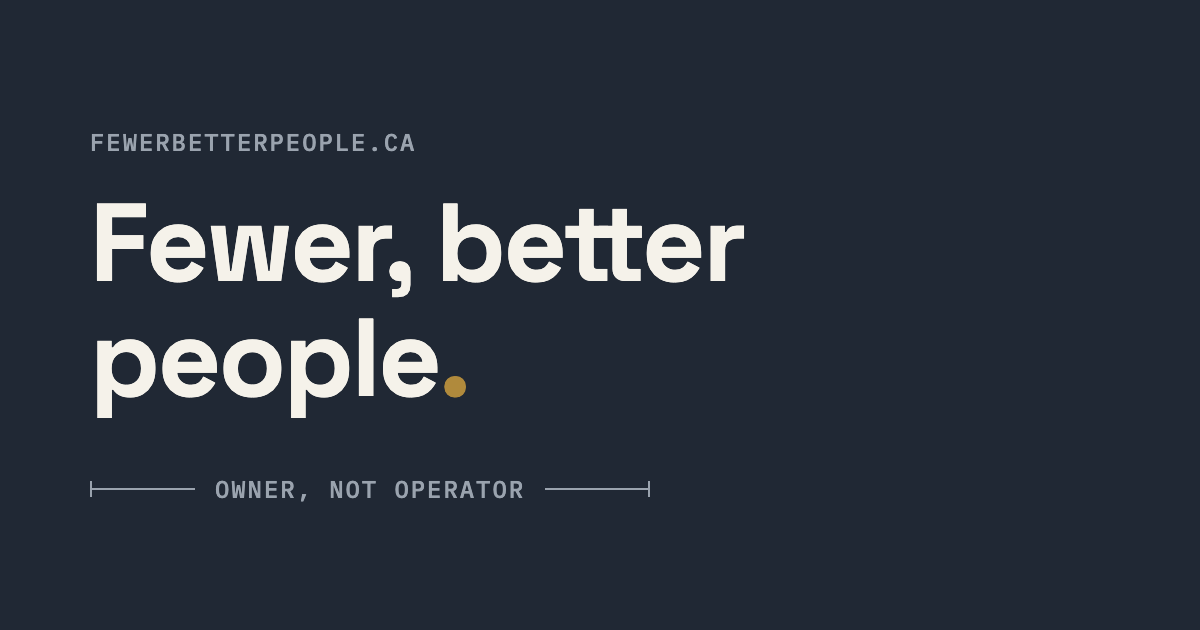
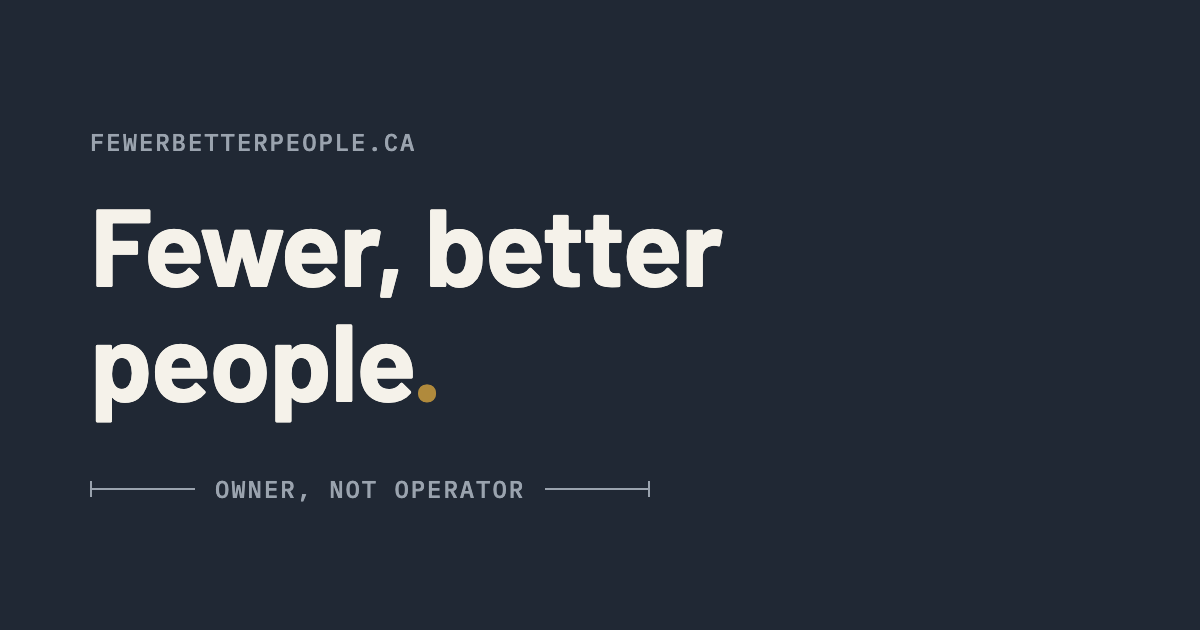
design: replace Space Grotesk with Barlow for display type
Karl's call after a side-by-side specimen. Recomputed the Arial fallback
metrics for Barlow (CLS stays 0), eased display tracking to -0.012em
since Barlow is already narrow, regenerated the default OG image.

diff --git a/src/styles/fonts.css b/src/styles/fonts.css
@@ -8,18 +8,18 @@
    (see README "Fonts"). */
 
 @font-face {
-  font-family: 'Space Grotesk';
+  font-family: 'Barlow';
   font-style: normal;
   font-weight: 500;
   font-display: swap;
-  src: url('/fonts/space-grotesk-latin-500-normal.woff2') format('woff2');
+  src: url('/fonts/barlow-latin-500-normal.woff2') format('woff2');
 }
 @font-face {
-  font-family: 'Space Grotesk';
+  font-family: 'Barlow';
   font-style: normal;
   font-weight: 700;
   font-display: swap;
-  src: url('/fonts/space-grotesk-latin-700-normal.woff2') format('woff2');
+  src: url('/fonts/barlow-latin-700-normal.woff2') format('woff2');
 }
 @font-face {
   font-family: 'IBM Plex Sans';
@@ -57,13 +57,13 @@
   src: url('/fonts/ibm-plex-mono-latin-500-normal.woff2') format('woff2');
 }
 
-/* Metric-matched fallbacks — computed 2026-08-02 with fontkit */
+/* Metric-matched fallbacks — computed 2026-08-03 with fontkit */
 @font-face {
-  font-family: 'Space Grotesk Fallback';
+  font-family: 'Barlow Fallback';
   src: local('Arial');
-  size-adjust: 110.57%;
-  ascent-override: 88.99%;
-  descent-override: 26.41%;
+  size-adjust: 99.51%;
+  ascent-override: 100.49%;
+  descent-override: 20.1%;
   line-gap-override: 0%;
 }
 @font-face {

diff --git a/src/styles/tokens.css b/src/styles/tokens.css
@@ -26,7 +26,7 @@
   --dark-rule: #39424e;
 
   /* ---- Type families --------------------------------------------------- */
-  --font-display: 'Space Grotesk', 'Space Grotesk Fallback', Arial, sans-serif;
+  --font-display: 'Barlow', 'Barlow Fallback', Arial, sans-serif;
   --font-body: 'IBM Plex Sans', 'IBM Plex Sans Fallback', Arial, sans-serif;
   --font-mono: 'IBM Plex Mono', 'IBM Plex Mono Fallback', 'Courier New', monospace;
 
@@ -41,7 +41,7 @@
   --step-4: clamp(2.0736rem, 1.7rem + 1.85vw, 3.2519rem);
   --step-5: clamp(2.4883rem, 1.85rem + 3.1vw, 4.4056rem);
 
-  --tracking-tight: -0.022em;  /* display sizes only */
+  --tracking-tight: -0.012em;  /* display sizes only — Barlow is already narrow, don't over-tighten */
   --tracking-mono: 0.08em;     /* mono labels, uppercase */
   --leading-tight: 1.08;
   --leading-heading: 1.2;

diff --git a/scripts/og-template.html b/scripts/og-template.html
@@ -7,9 +7,9 @@
     <meta charset="utf-8" />
     <style>
       @font-face {
-        font-family: 'Space Grotesk';
+        font-family: 'Barlow';
         font-weight: 700;
-        src: url('../public/fonts/space-grotesk-latin-700-normal.woff2') format('woff2');
+        src: url('../public/fonts/barlow-latin-700-normal.woff2') format('woff2');
       }
       @font-face {
         font-family: 'IBM Plex Mono';
@@ -37,11 +37,11 @@
         margin-bottom: 28px;
       }
       h1 {
-        font-family: 'Space Grotesk', sans-serif;
+        font-family: 'Barlow', sans-serif;
         font-weight: 700;
         font-size: 110px;
         line-height: 1.05;
-        letter-spacing: -0.022em;
+        letter-spacing: -0.012em;
       }
       .dot { color: #b08a3c; }
       .dim {

diff --git a/CLAUDE.md b/CLAUDE.md
@@ -6,7 +6,7 @@ changing anything. When in doubt, do less.
 
 ## Positioning and audience
 
-Karl Kenny, P.Eng. works directly for owners of privately held mid-market
+Karl Kenny works directly for owners of privately held mid-market
 companies — mostly industrial manufacturers, capital equipment, and adjacent
 trades, $10M–$100M revenue — as an **interim or fractional CEO**. Not advice:
 he takes the seat, sets the organization, defines the roles, installs the
@@ -85,8 +85,9 @@ pull-quote rule. If brass starts appearing everywhere, it means nothing.
 
 Type:
 
-- Display: Space Grotesk 700 (500 for pull quotes), tight tracking
-  (`--tracking-tight: -0.022em`) at large sizes.
+- Display: Barlow 700 (500 for pull quotes), tight tracking
+  (`--tracking-tight: -0.012em`) at large sizes. (Was Space Grotesk;
+  Karl rejected it 2026-08-03 — don't reintroduce it.)
 - Body: IBM Plex Sans 400/600.
 - Mono: IBM Plex Mono 400/500 — labels, figures, dimension callouts,
   uppercase with `--tracking-mono: 0.08em`.

diff --git a/public/fonts/LICENSE.md b/public/fonts/LICENSE.md
@@ -3,7 +3,7 @@
 All font files in this directory are licensed under the SIL Open Font
 License 1.1 (https://openfontlicense.org/).
 
-- **Space Grotesk** — © Florian Karsten. https://github.com/floriankarsten/space-grotesk
+- **Barlow** — © Jeremy Tribby. https://github.com/jpt/barlow
 - **IBM Plex Sans / IBM Plex Mono** — © IBM Corp. https://github.com/IBM/plex
 
 Files obtained via the @fontsource packages (subset: latin) and committed
